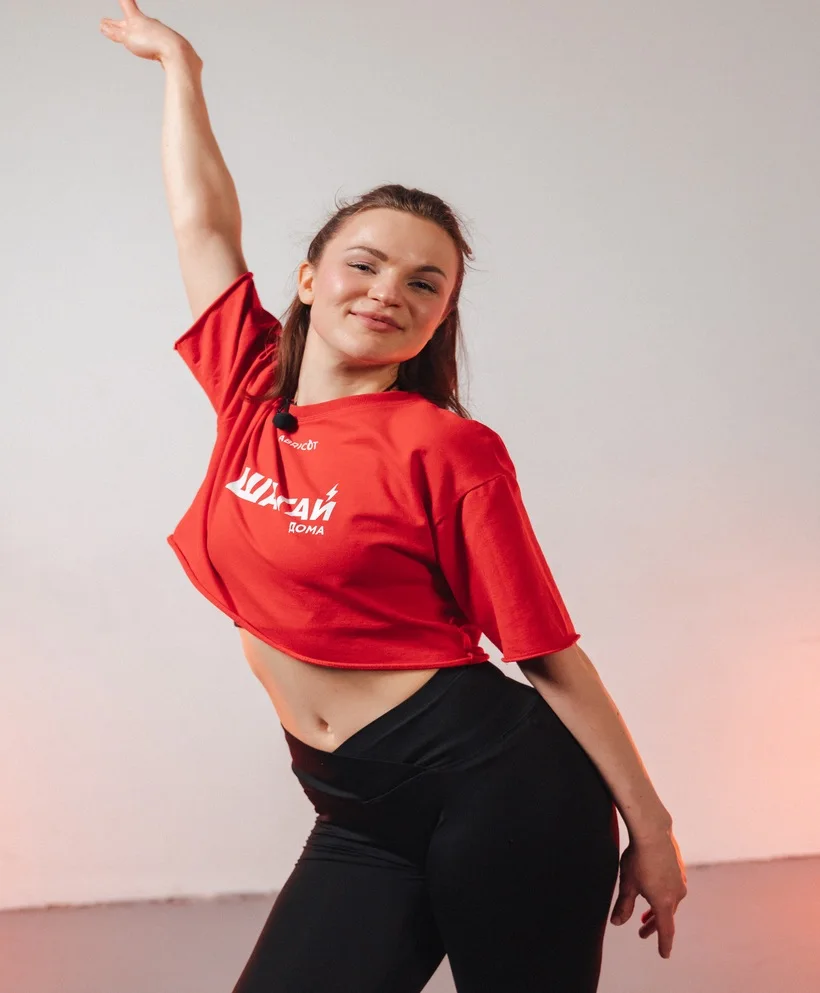
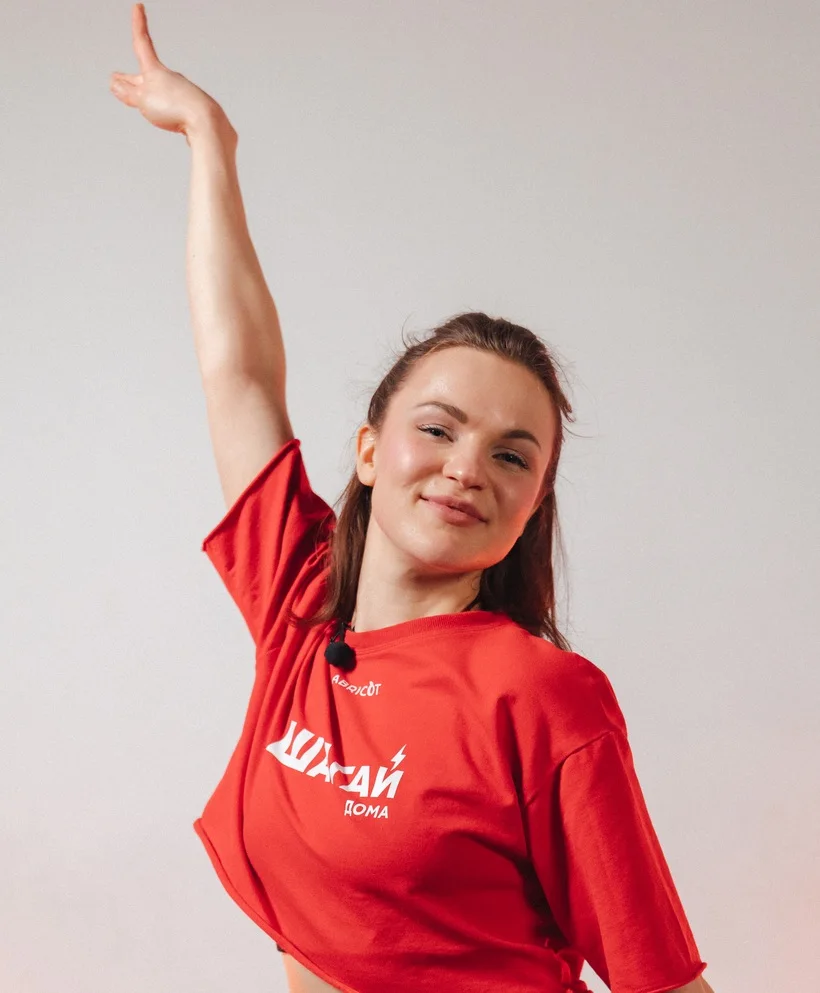
fix: кадр Маши без искажения пропорций, стикер по факту программы, размеры фото отзывов

diff --git a/tilda-standalone/block-2.html b/tilda-standalone/block-2.html
@@ -11,8 +11,8 @@
         <figure class="review"><img src="https://npopko55-cmd.github.io/antiotek/assets/reviews/review-1.webp" alt="&#1054;&#1090;&#1079;&#1099;&#1074; &#1091;&#1095;&#1072;&#1089;&#1090;&#1085;&#1080;&#1094;&#1099; &#1080;&#1085;&#1090;&#1077;&#1085;&#1089;&#1080;&#1074;&#1072;" width="560" height="840" loading="lazy" /></figure>
         <figure class="review"><img src="https://npopko55-cmd.github.io/antiotek/assets/reviews/review-2.webp" alt="&#1054;&#1090;&#1079;&#1099;&#1074; &#1091;&#1095;&#1072;&#1089;&#1090;&#1085;&#1080;&#1094;&#1099; &#1080;&#1085;&#1090;&#1077;&#1085;&#1089;&#1080;&#1074;&#1072;" width="520" height="412" loading="lazy" /></figure>
         <figure class="review"><img src="https://npopko55-cmd.github.io/antiotek/assets/reviews/review-3.webp" alt="&#1054;&#1090;&#1079;&#1099;&#1074; &#1091;&#1095;&#1072;&#1089;&#1090;&#1085;&#1080;&#1094;&#1099; &#1080;&#1085;&#1090;&#1077;&#1085;&#1089;&#1080;&#1074;&#1072;" width="560" height="706" loading="lazy" /></figure>
-        <figure class="review"><img src="https://npopko55-cmd.github.io/antiotek/assets/reviews/review-4.webp" alt="&#1054;&#1090;&#1079;&#1099;&#1074; &#1091;&#1095;&#1072;&#1089;&#1090;&#1085;&#1080;&#1094;&#1099; &#1080;&#1085;&#1090;&#1077;&#1085;&#1089;&#1080;&#1074;&#1072;" width="560" height="734" loading="lazy" /></figure>
-        <figure class="review"><img src="https://npopko55-cmd.github.io/antiotek/assets/reviews/review-5.webp" alt="&#1054;&#1090;&#1079;&#1099;&#1074; &#1091;&#1095;&#1072;&#1089;&#1090;&#1085;&#1080;&#1094;&#1099; &#1080;&#1085;&#1090;&#1077;&#1085;&#1089;&#1080;&#1074;&#1072;" width="560" height="480" loading="lazy" /></figure>
+        <figure class="review"><img src="https://npopko55-cmd.github.io/antiotek/assets/reviews/review-4.webp" alt="&#1054;&#1090;&#1079;&#1099;&#1074; &#1091;&#1095;&#1072;&#1089;&#1090;&#1085;&#1080;&#1094;&#1099; &#1080;&#1085;&#1090;&#1077;&#1085;&#1089;&#1080;&#1074;&#1072;" width="560" height="1117" loading="lazy" /></figure>
+        <figure class="review"><img src="https://npopko55-cmd.github.io/antiotek/assets/reviews/review-5.webp" alt="&#1054;&#1090;&#1079;&#1099;&#1074; &#1091;&#1095;&#1072;&#1089;&#1090;&#1085;&#1080;&#1094;&#1099; &#1080;&#1085;&#1090;&#1077;&#1085;&#1089;&#1080;&#1074;&#1072;" width="560" height="560" loading="lazy" /></figure>
       </div>
       <button class="track-nav track-nav--next" type="button" aria-label="&#1057;&#1083;&#1077;&#1076;&#1091;&#1102;&#1097;&#1080;&#1077; &#1086;&#1090;&#1079;&#1099;&#1074;&#1099;" aria-controls="reviewsTrack">
         <svg viewBox="0 0 24 24" width="20" height="20" fill="none" stroke="currentColor" stroke-width="2.4" stroke-linecap="round" stroke-linejoin="round" aria-hidden="true"><path d="m9 5 7 7-7 7"/></svg>

diff --git a/index.html b/index.html
@@ -26,7 +26,7 @@
         imagesrcset="assets/hero/hero-antiotek-760.webp 600w, assets/hero/hero-antiotek.webp 900w"
         imagesizes="(max-width: 900px) 92vw, 40vw" />
 
-  <link rel="stylesheet" href="styles.css?v=anti-P" />
+  <link rel="stylesheet" href="styles.css?v=anti-Q" />
 </head>
 <body>
 
@@ -136,7 +136,7 @@
              sizes="(max-width: 900px) 92vw, 42vw"
              alt="Тренер клуба «Шагай Дома»"
              width="820" height="993" fetchpriority="high" />
-        <span class="hero__sticker hero__sticker--top">Лимфоток<br />запускается<br />с первого дня</span>
+        <span class="hero__sticker hero__sticker--top">Самомассаж<br /><b>5 минут</b><br />в день</span>
         <span class="hero__sticker hero__sticker--bottom"><b>2100+</b> уже прошли</span>
       </div>
     </div>
@@ -203,8 +203,8 @@
         <figure class="review"><img src="assets/reviews/review-1.webp" alt="Отзыв участницы интенсива" width="560" height="840" loading="lazy" /></figure>
         <figure class="review"><img src="assets/reviews/review-2.webp" alt="Отзыв участницы интенсива" width="520" height="412" loading="lazy" /></figure>
         <figure class="review"><img src="assets/reviews/review-3.webp" alt="Отзыв участницы интенсива" width="560" height="706" loading="lazy" /></figure>
-        <figure class="review"><img src="assets/reviews/review-4.webp" alt="Отзыв участницы интенсива" width="560" height="734" loading="lazy" /></figure>
-        <figure class="review"><img src="assets/reviews/review-5.webp" alt="Отзыв участницы интенсива" width="560" height="480" loading="lazy" /></figure>
+        <figure class="review"><img src="assets/reviews/review-4.webp" alt="Отзыв участницы интенсива" width="560" height="1117" loading="lazy" /></figure>
+        <figure class="review"><img src="assets/reviews/review-5.webp" alt="Отзыв участницы интенсива" width="560" height="560" loading="lazy" /></figure>
       </div>
       <button class="track-nav track-nav--next" type="button" aria-label="Следующие отзывы" aria-controls="reviewsTrack">
         <svg viewBox="0 0 24 24" width="20" height="20" fill="none" stroke="currentColor" stroke-width="2.4" stroke-linecap="round" stroke-linejoin="round" aria-hidden="true"><path d="m9 5 7 7-7 7"/></svg>
@@ -570,6 +570,6 @@
 
 <button class="back-to-top" id="backToTop" type="button" aria-label="Наверх">↑</button>
 
-<script src="script.js?v=anti-P"></script>
+<script src="script.js?v=anti-Q"></script>
 </body>
 </html>

diff --git a/tilda-standalone/block-1.html b/tilda-standalone/block-1.html
@@ -105,7 +105,7 @@
              sizes="(max-width: 900px) 92vw, 42vw"
              alt="&#1058;&#1088;&#1077;&#1085;&#1077;&#1088; &#1082;&#1083;&#1091;&#1073;&#1072; &#171;&#1064;&#1072;&#1075;&#1072;&#1081; &#1044;&#1086;&#1084;&#1072;&#187;"
              width="820" height="993" fetchpriority="high" />
-        <span class="hero__sticker hero__sticker--top">&#1051;&#1080;&#1084;&#1092;&#1086;&#1090;&#1086;&#1082;<br />&#1079;&#1072;&#1087;&#1091;&#1089;&#1082;&#1072;&#1077;&#1090;&#1089;&#1103;<br />&#1089; &#1087;&#1077;&#1088;&#1074;&#1086;&#1075;&#1086; &#1076;&#1085;&#1103;</span>
+        <span class="hero__sticker hero__sticker--top">&#1057;&#1072;&#1084;&#1086;&#1084;&#1072;&#1089;&#1089;&#1072;&#1078;<br /><b>5 &#1084;&#1080;&#1085;&#1091;&#1090;</b><br />&#1074; &#1076;&#1077;&#1085;&#1100;</span>
         <span class="hero__sticker hero__sticker--bottom"><b>2100+</b> &#1091;&#1078;&#1077; &#1087;&#1088;&#1086;&#1096;&#1083;&#1080;</span>
       </div>
     </div>
